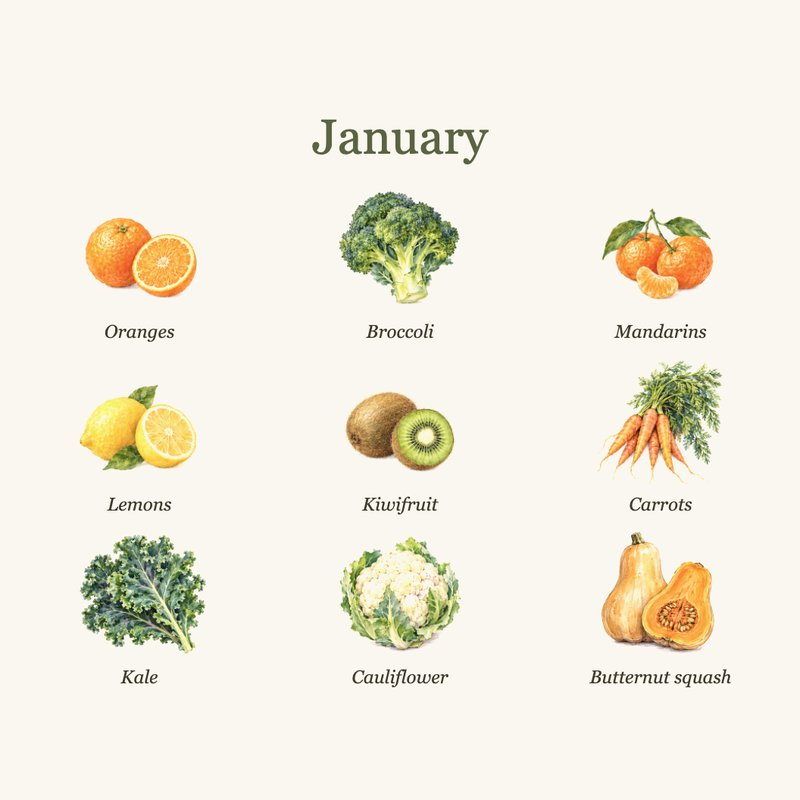
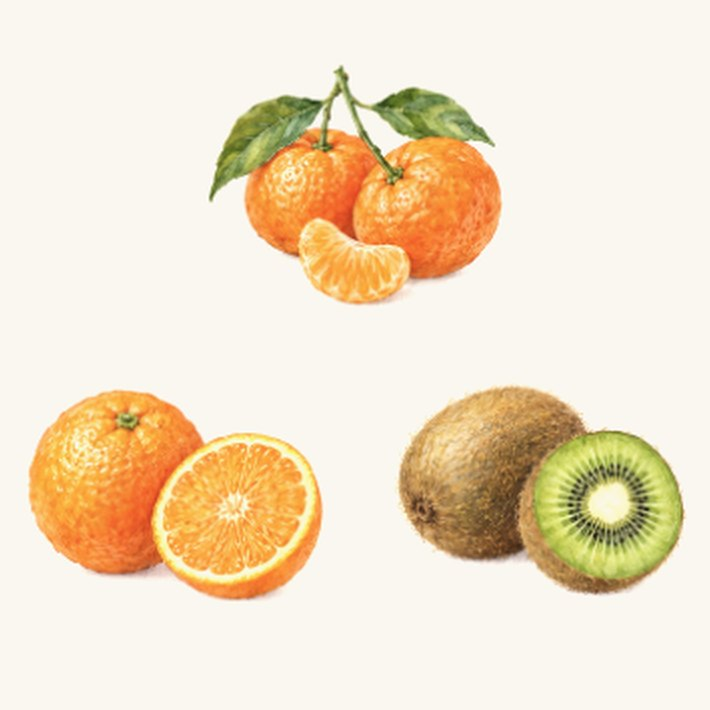
Prettier Seasonal Calendar thumbnail, abbreviate card dates
Thumbnail is now a close-up still life (mandarins, orange, kiwi) taken
from the app's watercolor art. Dates use short month names so each
category line fits on one line.

Claude-Session: https://claude.ai/code/session_01DsVtZdbf456WLHBZcPq45s

diff --git a/index.html b/index.html
@@ -51,13 +51,13 @@
 
         <a class="recipe-card" href="https://joyful-lebkuchen-63d175.netlify.app/" target="_blank" rel="noopener">
           <div class="card-thumb"><img src="https://joyful-lebkuchen-63d175.netlify.app/pound-cake-hero.jpg" alt="Pound Cake Notebook — glazed pound cake with strawberries" /></div>
-          <p class="card-category">Website · March 2026</p>
+          <p class="card-category">Website · Mar 2026</p>
           <h3>Pound Cake Notebook</h3>
         </a>
 
         <a class="recipe-card" href="https://seasonal-calendar.lia123.chatgpt.site/" target="_blank" rel="noopener">
-          <div class="card-thumb"><img src="seasonal-calendar.jpg" alt="Seasonal Calendar — January page with watercolor oranges, broccoli, mandarins, lemons, kiwi, carrots, kale, cauliflower and butternut squash" /></div>
-          <p class="card-category">Website · October 2026</p>
+          <div class="card-thumb"><img src="seasonal-calendar.jpg" alt="Seasonal Calendar — watercolor mandarins, an orange and a kiwi" /></div>
+          <p class="card-category">Website · Oct 2026</p>
           <h3>Seasonal Calendar</h3>
         </a>
 
